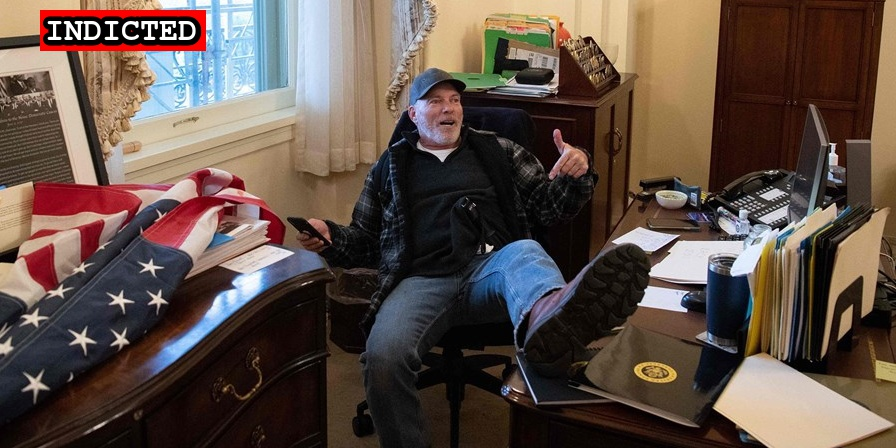
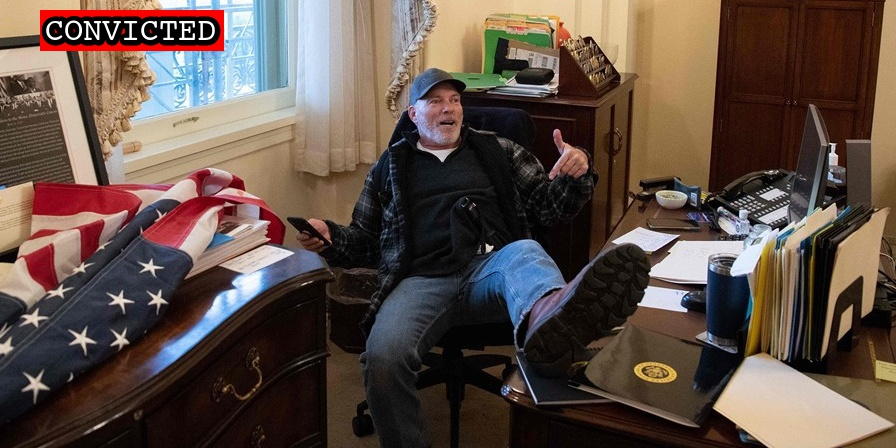
More convictions

Changed region(s): [[0.0312, 0.0, 0.25, 0.125]]

diff --git a/docs/_suspects/richard-barnett.md b/docs/_suspects/richard-barnett.md
@@ -4,11 +4,11 @@ lastName: Barnett
 hashtag: RichardBarnett
 aka:
 residence: Arkansas
-status: Indicted
+status: Convicted
 date: 2021-01-08
 charged: 2021-01-08
 indicted: 2021-01-29
-convicted:
+convicted: 2023-01-23
 acquitted:
 sentenced:
 dismissed:
@@ -32,7 +32,7 @@ raid: richard-barnett.jpg
 perpwalk:
 quote: "I wrote her a nasty note"
 title: Richard Barnett charged on January 8, 2021
-description: Click for latest case details. Suspects considered innocent until proven guilty.
+description: Convicted on January 23, 2023. Click for latest case details.
 author: seditiontrack
 layout: suspect
 published: true
@@ -41,11 +41,41 @@ caseName: USA v. BARNETT
 judge: Christopher R. Cooper
 videos:
 charges:
+  - code: 18 USC § 1512(c)(2),2
+    title: Obstruction of an Official Proceeding (Aiding and Abetting)
+    url: https://www.law.cornell.edu/uscode/text/18/1512
+    felony: true
+  - code: 18 USC § 1752(a)(1), (b)(1)(A)
+    title: Entering a restricted building or grounds with a dangerous or deadly weapon
+    url: https://www.law.cornell.edu/uscode/text/18/1752
+    felony: true
+  - code: 18 USC § 1752(a)(2), (b)(1)(A)
+    title: Entering a restricted building or grounds with a dangerous or deadly weapon
+    url: https://www.law.cornell.edu/uscode/text/18/1752
+    felony: true
+  - code: 18 USC § 5104(e)(2)(C)
+    title: Entering and Remaining in Certain Rooms in the Capitol Building
+    url: https://www.law.cornell.edu/uscode/text/40/5104
+    felony: false
+  - code: 40 USC § 5104(e)(2)(D)
+    title: Disorderly Conduct in a Capitol Building
+    url: https://www.law.cornell.edu/uscode/text/40/5104
+    felony: false
+  - code: 40 USC § 5104(e)(2)(G)
+    title: Parading, demonstrating or picketing in a Capitol building
+    url: https://www.law.cornell.edu/uscode/text/40/5104
+    felony: false
+  - code: 18 USC § 641
+    title: Theft of Government Property
+    url: https://www.law.cornell.edu/uscode/text/18/641
+    felony: false
 sentence:
 ---
+
 - [News Report](https://apnews.com/article/donald-trump-arkansas-arrests-little-rock-theft-4837d9bae7988943f126f7a0f3782619)
 - [DOJ Press Release](https://www.justice.gov/opa/pr/man-arrested-illegally-entering-office-speaker-house)
 - [FBI Search](https://katv.com/news/local/fbi-conducts-search-warrant-on-richard-barnetts-home)
 - [Statement of Facts](https://www.justice.gov/usao-dc/press-release/file/1353231/download)
 - [Complaint](https://www.justice.gov/usao-dc/press-release/file/1353191/download)
 - [Indictment](https://www.justice.gov/opa/page/file/1364156/download)
+- [DOJ Press Release (Conviction)](https://www.justice.gov/usao-dc/pr/arkansas-man-who-put-his-feet-desk-offices-former-speaker-house-representatives-nancy)

diff --git a/docs/_suspects/jacob-therres.md b/docs/_suspects/jacob-therres.md
@@ -4,11 +4,11 @@ lastName: Therres
 hashtag: NelsonPostThrower
 aka:
 residence: Maryland
-status: Charged
+status: Convicted
 date: 2022-11-03
 charged: 2022-11-03
 indicted:
-convicted:
+convicted: 2023-01-23
 acquitted:
 sentenced:
 dismissed:
@@ -17,7 +17,7 @@ plea_hearing: 2023-01-23
 trial_date:
 trial_type:
 jury_selection:
-sentencing:
+sentencing: 2023-04-24
 status_conference:
 age: 25
 occupation:
@@ -32,7 +32,7 @@ raid:
 perpwalk:
 quote:
 title: Jacob Therres charged on November 3rd, 2022
-description: Click for latest case details. Suspects innocent until proven guilty.
+description: Convicted on January 23, 2023. Click for latest case details.
 author: seditiontrack
 layout: suspect
 published: true
@@ -41,8 +41,14 @@ caseName: USA v. THERRES
 judge: James E. Boasberg
 videos:
 charges:
+  - code: 18 USC § 111(a)(1) and (b)
+    title: Assaulting, resisting, or impeding certain officers or employees (using a deadly or dangerous weapon)
+    url: https://www.law.cornell.edu/uscode/text/18/111
+    felony: true
 sentence:
 ---
+
 - [News Report](https://www.thebaltimorebanner.com/community/criminal-justice/fallston-father-and-stepson-charged-with-assaulting-police-during-jan-6-insurrection-TFFWXKARWJEBVDKQ6N5H7CTABI/?tag1=twitter&tag2=socialnewsdesk)
 - [Complaint](https://www.justice.gov/usao-dc/case-multi-defendant/file/1552271/download)
 - [Statement of Facts](https://www.justice.gov/usao-dc/case-multi-defendant/file/1552276/download)
+- [DOJ Press Release (Conviction)](https://www.justice.gov/usao-dc/pr/maryland-man-pleads-guilty-felony-charge-actions-during-jan-6-capitol-breach-1)
